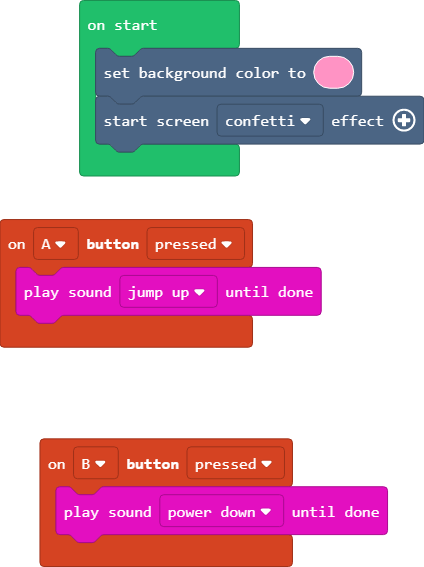
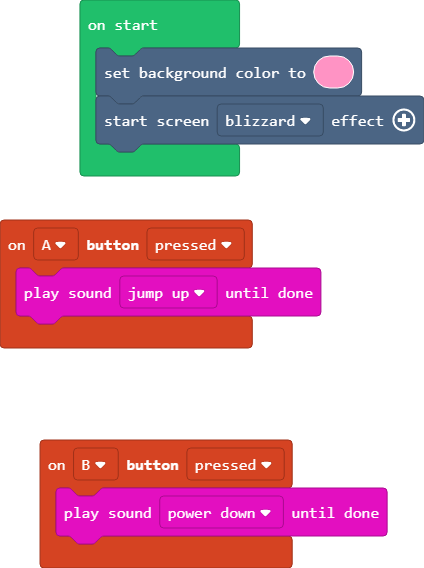
blizzard

diff --git a/main.ts b/main.ts
@@ -5,4 +5,4 @@ controller.A.onEvent(ControllerButtonEvent.Pressed, function () {
     music.jumpUp.playUntilDone()
 })
 scene.setBackgroundColor(3)
-effects.confetti.startScreenEffect()
+effects.blizzard.startScreenEffect()
